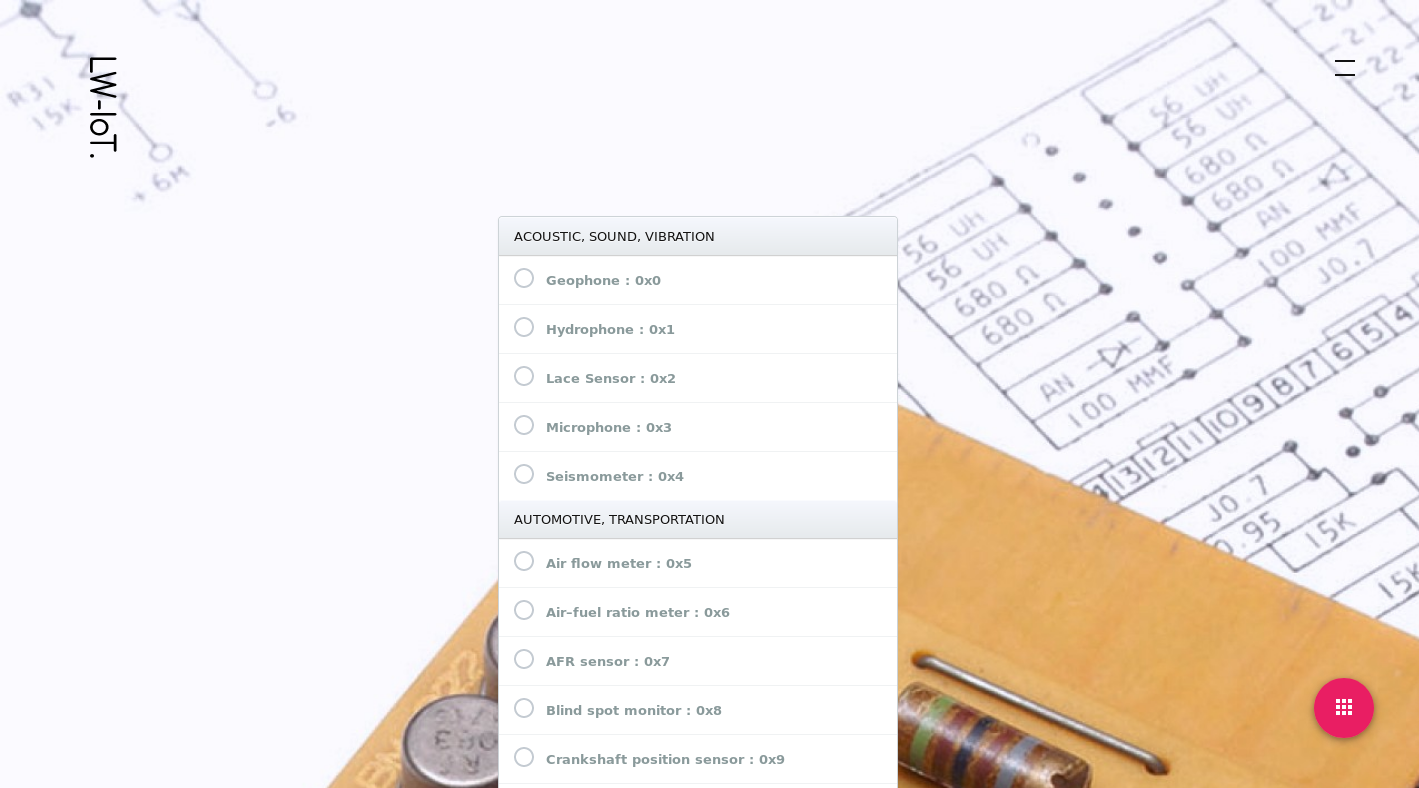
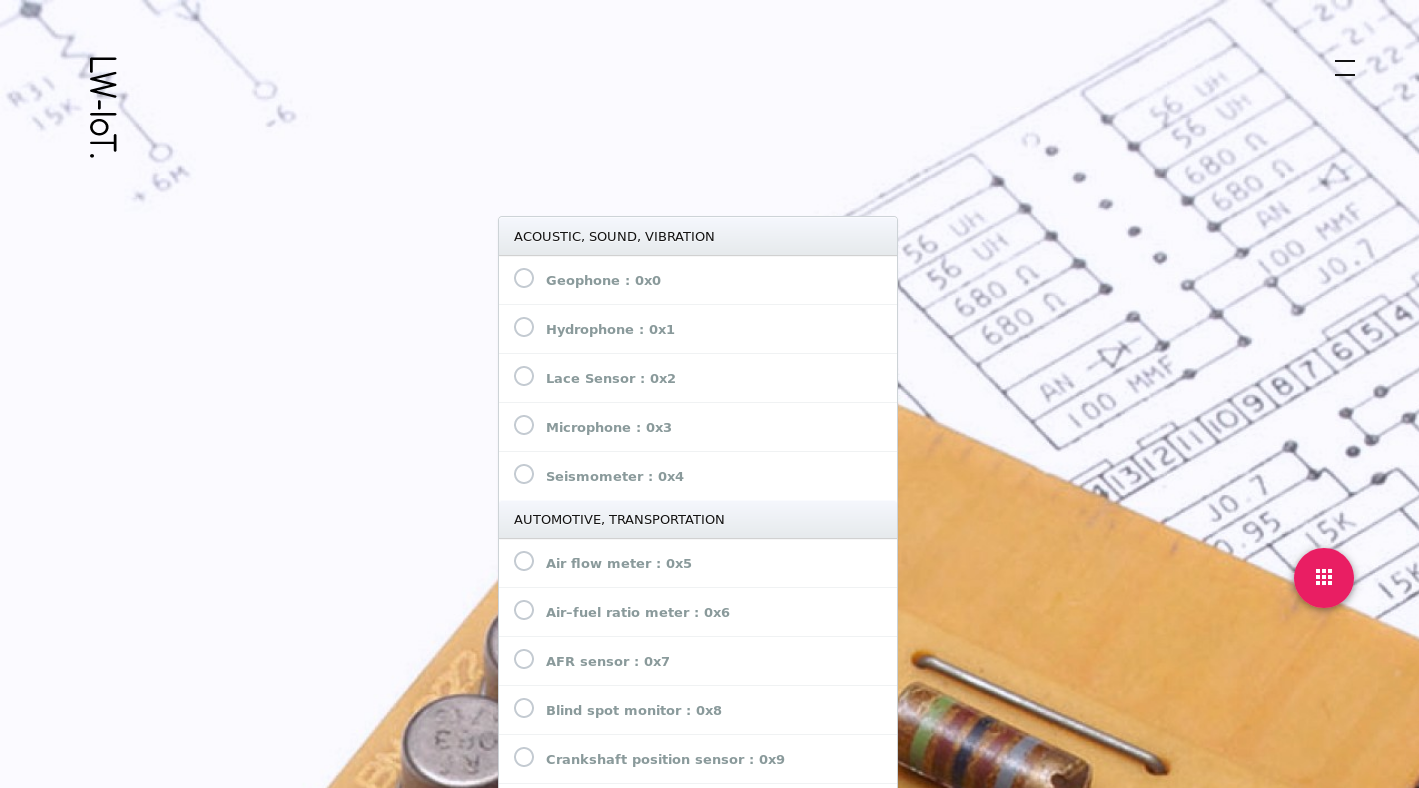
menu added to network. HelperNetwork added.

Changed region(s): [[0.8992, 0.7005, 0.9612, 0.7919], [0.8992, 0.8528, 0.9922, 0.9442]]

diff --git a/c2net-iot-hub-site/Network.html b/c2net-iot-hub-site/Network.html
@@ -66,6 +66,8 @@ img.emoji {
 <link rel="stylesheet" id="font-awesome-css" href="LWFiles/font-awesome.css" type="text/css" media="all">
 <link rel="stylesheet" id="lightbox-stylesheet-css" href="LWFiles/lightcase.css" type="text/css" media="all">
 <link rel="stylesheet" href="LWFiles/sensing.css" type="text/css" media="all">
+<link rel="stylesheet" href="https://cdnjs.cloudflare.com/ajax/libs/material-design-iconic-font/2.2.0/css/material-design-iconic-font.min.css">
+<link rel="stylesheet" href="LWFiles/materialmenu.css">
 <script type="text/javascript" src="LWFiles/jquery.js"></script>
 <script type="text/javascript" src="LWFiles/jquery-migrate.js"></script>
 <script type="text/javascript" src="LWFiles/modernizr.js"></script>
@@ -262,7 +264,12 @@ img.emoji {
 	</div>	  
 <div class="alert alert-danger alert-dismissible fade in text-center hidden" role="alert" id="failure">
   <strong>UHMMM!</strong> Something bad happened <a href="#" class="alert-link">here:(</a>.
-	</div>	
+	</div>		<div class="menu-button"><i class="zmdi zmdi-apps"></i>
+<a id="plus" target="blank"><i class="zmdi zmdi-save"></i></a>
+<a id="minus" target="blank"><i class="zmdi zmdi-help"></i></a>
+			</div>
+
+
 	<section class="full" id="page--hero">
 
 
@@ -282,8 +289,8 @@ img.emoji {
 
 </div>	
 
-
 	</section>
+				
 <footer id="global--footer" style="position: absolute;right: 0;  bottom: 0;  left: 0;" >
 	<div class="wrap cf">
 			<a class="cnet " href="http://c2net-project.eu/" data-os-animation="fadeInUp">About C2NET</a>
@@ -292,7 +299,7 @@ img.emoji {
 			</a>
 		</div>
 
-	</footer>
+		</footer>
 </main>
 <script src="https://ajax.googleapis.com/ajax/libs/jquery/2.2.4/jquery.min.js"></script>
 <script type="text/javascript" src="LWFiles/rangeslider.js"></script>
@@ -304,8 +311,10 @@ img.emoji {
 <script type="text/javascript" src="LWFiles/scripts-min.js"></script>
 <script type="text/javascript" src="LWFiles/wp-embed.js"></script>
 
-
 <script src="https://maxcdn.bootstrapcdn.com/bootstrap/4.0.0-beta/js/bootstrap.min.js" integrity="sha384-h0AbiXch4ZDo7tp9hKZ4TsHbi047NrKGLO3SEJAg45jXxnGIfYzk4Si90RDIqNm1" crossorigin="anonymous"></script>
+<script src="https://cdnjs.cloudflare.com/ajax/libs/gsap/1.15.1/TweenMax.min.js"></script>
+
+
 
 <script type="text/javascript">
 
@@ -403,7 +412,7 @@ $(document).ready(function() {
 	});
 
 
-$("#save").on("click",function(){
+$("#plus").on("click",function(){
 	
 //	$( "#myselect option:selected" ).text();
 	var typeid=[];
@@ -496,6 +505,10 @@ $("td button.row-remove").on("click", function(){
 	$(this).closest("tr").remove();
 });
 
+ $("#minus").click(function(){
+
+  	window.location.replace("HelpNetwork.html");
+  });
 
 
 });

diff --git a/c2net-iot-hub-site/HelpNetwork.html b/c2net-iot-hub-site/HelpNetwork.html
@@ -16,7 +16,7 @@
         <style>
 		body {
   /*background-image: url('./pf.png');*/
-  background-image: url('./LWFiles/helpSensor.png');
+  background-image: url('./LWFiles/helpNetwork.png');
  background-repeat:no-repeat;
   background-attachment: fixed;
 -webkit-background-size: 100% auto;
@@ -342,14 +342,14 @@ background-size: 100% auto ;
                     $('body').removeClass('page-intro');
                     setTimeout(function(){
                         $('.stack').hide();
-			window.location.replace("Sensor.html");
+			window.location.replace("Network.html");
                     }, 600);
                 }
             }
         </script>
         <div class="stack-templates" style="display: none">
             <div>
-                <h1>LW-IoT Hub supports a different array of Sensors</h1>
+                <h1>LW-IoT Hub supports a different array of Se</h1>
                 <div class="reveal">
                     <p>From diverse categories such as:</p>
                     <ul>

diff --git a/c2net-iot-hub-site/Sensor.html b/c2net-iot-hub-site/Sensor.html
@@ -260,7 +260,7 @@ id="flowRoot3462">
 
 				<div class="menu-button"><i class="zmdi zmdi-apps"></i>
 <a id="plus" target="blank"><i class="zmdi zmdi-save"></i></a>
-<a id="centered-toggle-button" target="blank"><i class="zmdi zmdi-help"></i></a>
+<a id="minus" target="blank"><i class="zmdi zmdi-help"></i></a>
 			</div>
 
 <footer id="global--footer" style="position: relative;right: 0;  bottom: 0;  left: 0;" >
@@ -378,8 +378,11 @@ $(document).ready(function(){
 		console.log(x);
 		
 
-  })
+  });
+  $("#minus").click(function(){
 
+  	window.location.replace("HelpSensor.html");
+  });
 
 
 })

diff --git a/c2net-iot-hub-site/LWFiles/materialmenu.css b/c2net-iot-hub-site/LWFiles/materialmenu.css
@@ -18,8 +18,8 @@ h1 {
   -moz-transition: 0.4s;
   transition: 0.4s;
   position: absolute;
-  right: 50px;
-  bottom: 50px;
+  right: 70px;
+  bottom: 180px;
   width: 60px;
   height: 60px;
   text-align: center;
